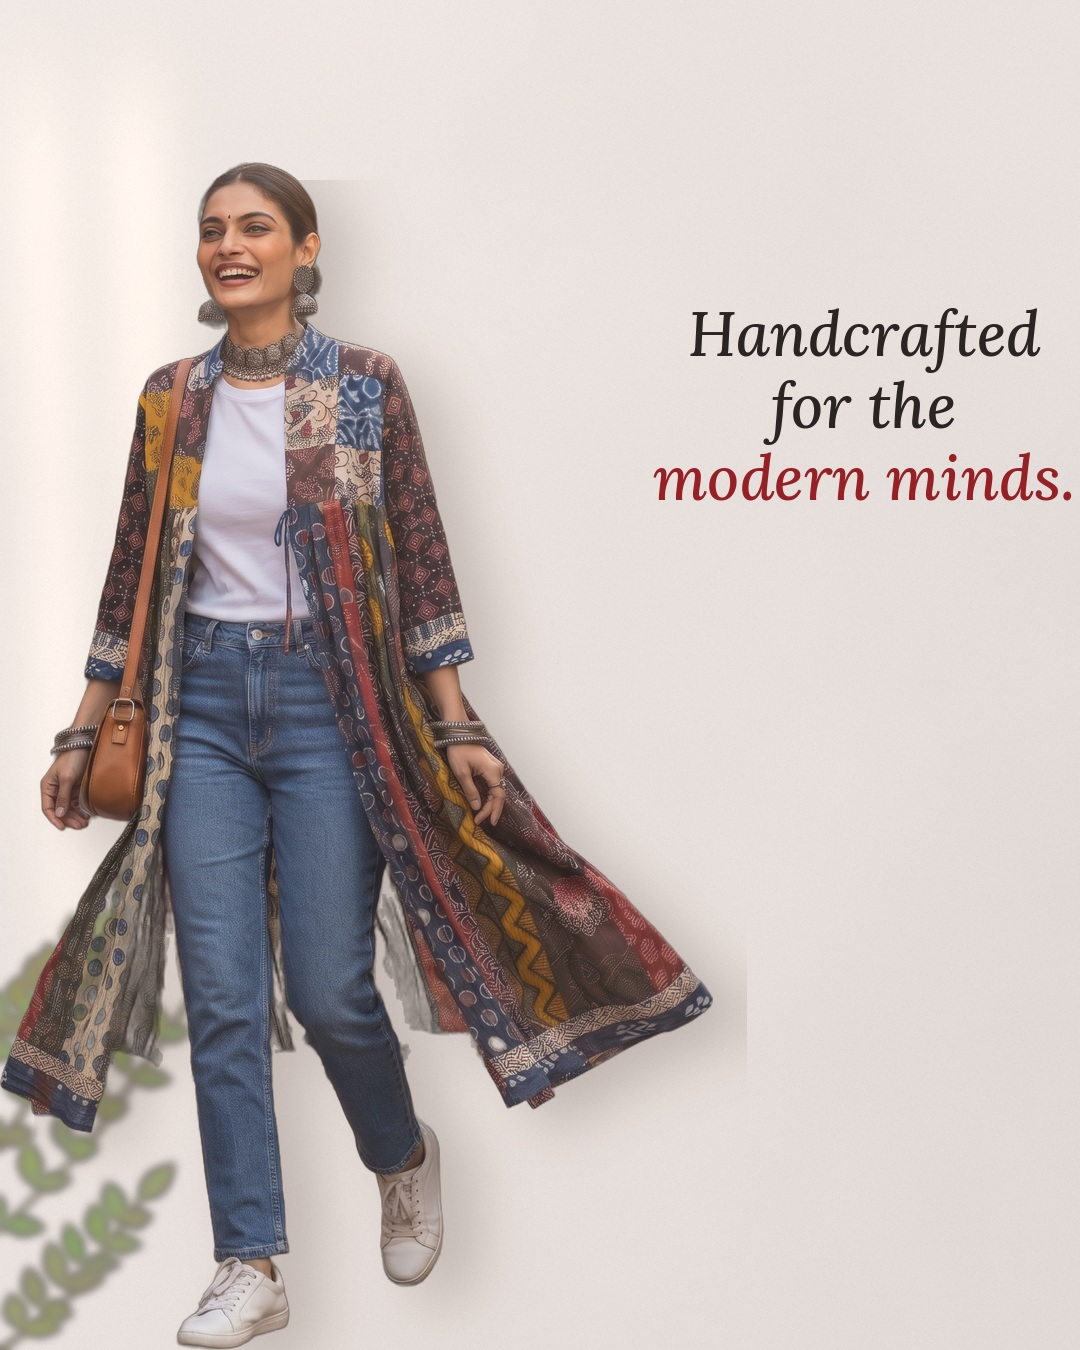
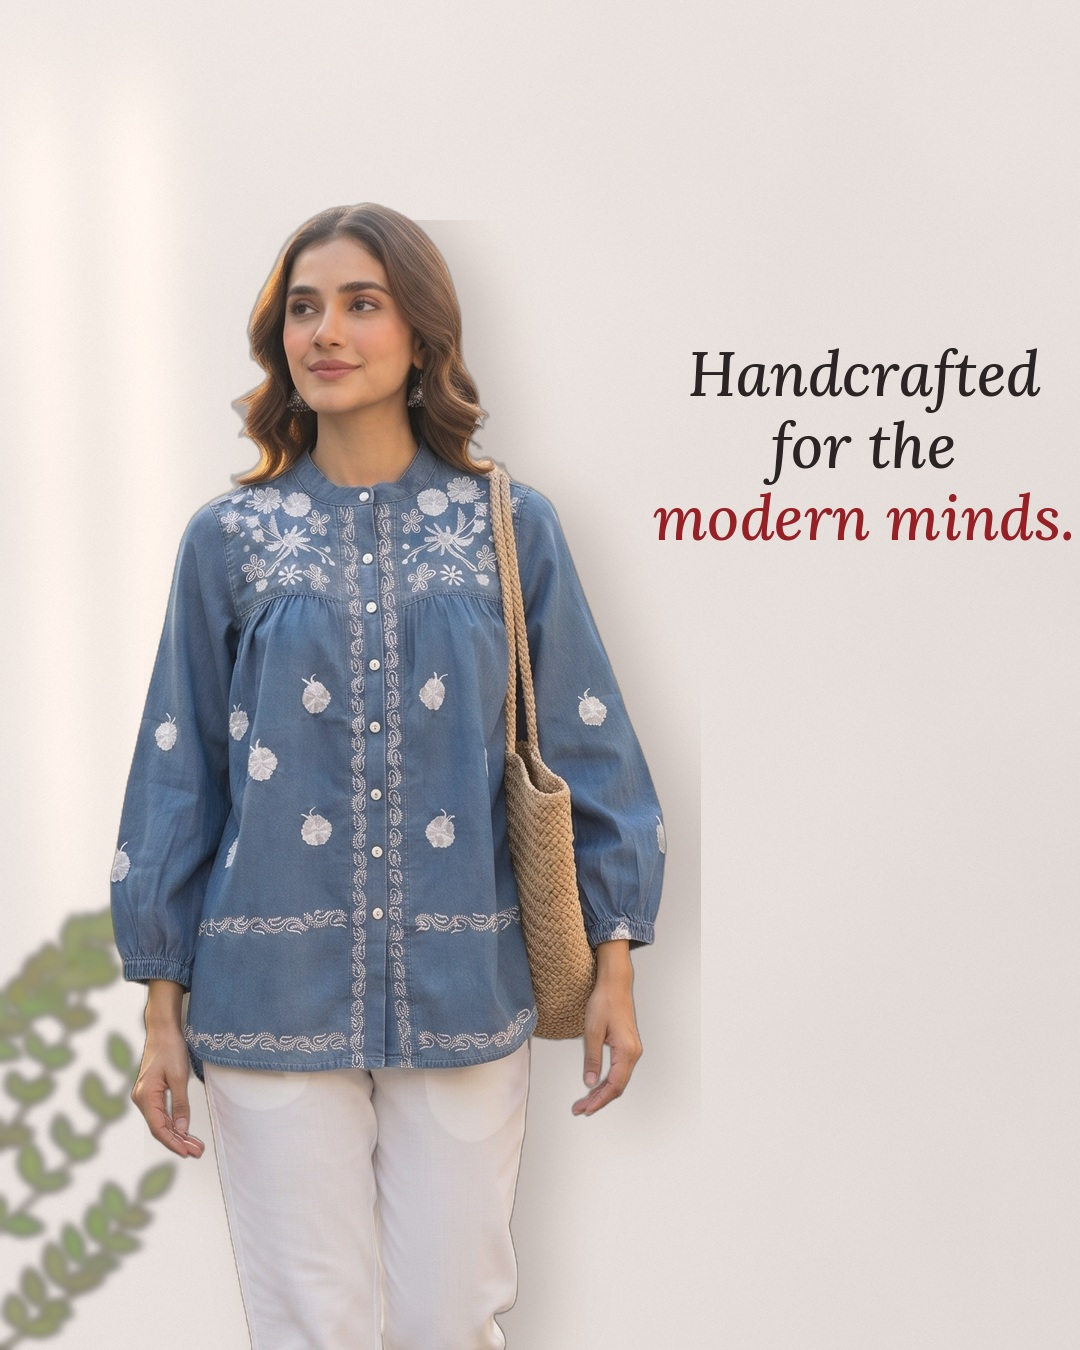
Top-stock Everyday Favourite carousel: drop the shrug, back to 4 slides
Claude-Session: https://claude.ai/code/session_01LZv7UTnsZcwjx4RXmrtg3u

diff --git a/marketing/posts/everyday_favourite_carousel.py b/marketing/posts/everyday_favourite_carousel.py
@@ -49,15 +49,13 @@ SLIDES_2 = [
      [("Rooted in", False), ("Indian", True), ("heritage.", True)], (0.80, 0.33)),
 ]
 
-# third set: the five tunics and tops with the most stock (4 each). Paths are relative to product-photos/.
+# third set: the tunics and tops with the most stock (4 each), without the shrug. Paths are relative to product-photos/.
 SLIDES_3 = [
     ("everyday-favourite/cutouts/1-pink-jaipuri-short-top", 1.36, 0.235, 0.50, None, None),
     ("everyday-favourite/cutouts/2-maroon-mirror-work-tunic", 0.86, 0.13, 0.35,
      [("Short tunics", False), ("that move you", False), ("with ease.", True)], (0.775, 0.37)),
-    ("everyday-favourite-2/cutouts/3-kutchi-patchwork-long-shrug", 0.88, 0.12, 0.33,
-     [("Handcrafted", False), ("for the", False), ("modern minds.", True)], (0.80, 0.30)),
     ("everyday-favourite-2/cutouts/1-denim-balloon-sleeve-top", 1.18, 0.15, 0.36,
-     [("Easy to style,", False), ("made to be", False), ("worn on repeat.", True)], (0.785, 0.33)),
+     [("Handcrafted", False), ("for the", False), ("modern minds.", True)], (0.80, 0.33)),
     ("everyday-favourite-2/cutouts/2-rich-red-chanderi-shirt", 0.86, 0.13, 0.29,
      [("Rooted in", False), ("Indian", True), ("heritage.", True)], (0.785, 0.36)),
 ]
